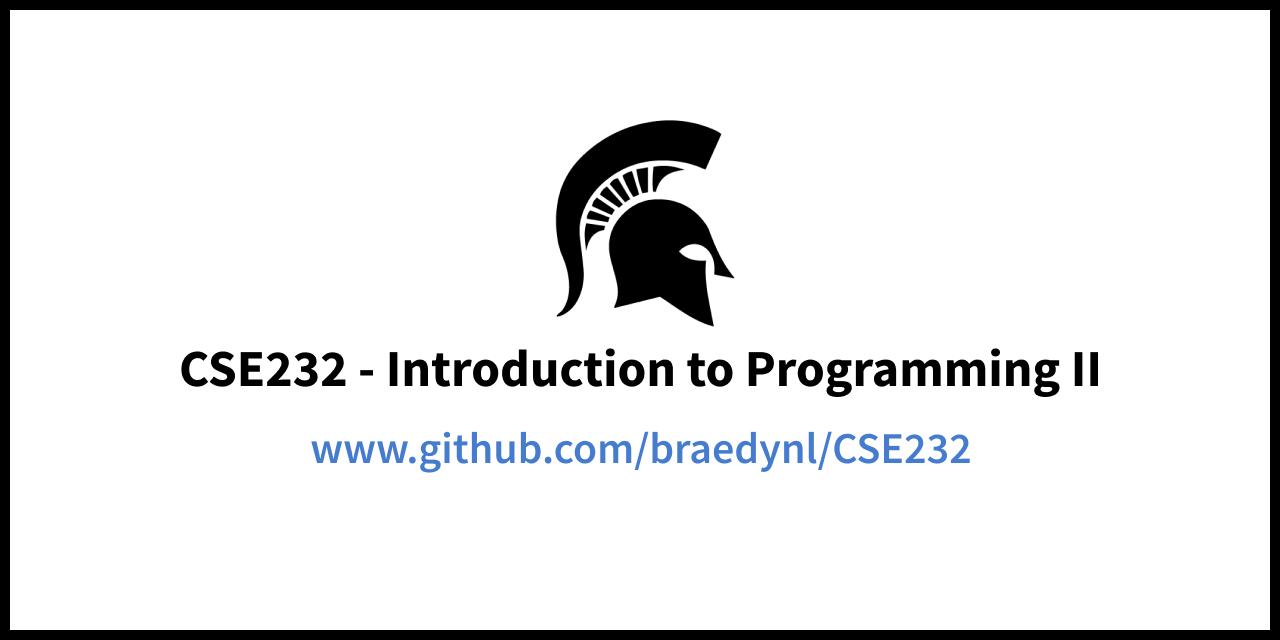
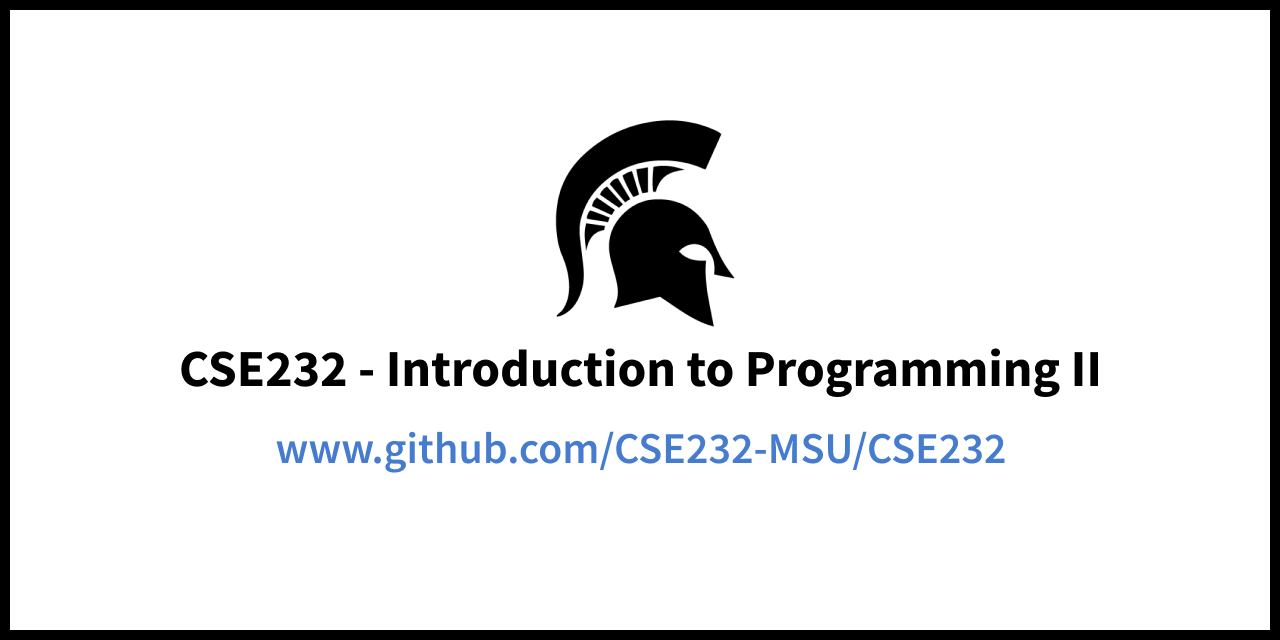
fixed links, deleted announcements section

Changed region(s): [[0.2188, 0.6562, 0.7812, 0.75]]

diff --git a/.assets/update_readme.py b/.assets/update_readme.py
@@ -100,7 +100,7 @@ class Calendar:
         self.calendar = {}
 
         date = self.start_datetime_obj
-        for _ in range(0, weeks):
+        for _ in range(weeks):
             for _ in range(7):
                 self.calendar[date.strftime('%m/%d/%Y')] = Day(date)
                 date += timedelta(1)
@@ -111,11 +111,7 @@ class Calendar:
         """
         return str(self.calendar)
 
-    def __repr__(self) -> str:
-        """
-        Represents the calendar as a string.
-        """
-        return str(self)
+    __repr__ = __str__
 
     def __getitem__(self, date: str) -> Day:
         """
@@ -156,7 +152,7 @@ class Calendar:
         start
             Optional argument to begin enumeration from a different number, defaulted to 1.
         step
-            Optional argument to skip enumerations by a particular step amount.
+            Optional argument to skip enumerations by a particular step amount, defaulted to 1.
         """
         date = self[start_date].datetime_obj
         date_str = date.strftime('%m/%d/%Y')
@@ -234,7 +230,7 @@ if __name__ == "__main__":
         every=7,
         start_date='1/10/2021',
         skip_dates=[],
-        href_format='https://braedynl.github.io/CSE232/schedule/week{:02d}/',
+        href_format='https://cse232-msu.github.io/CSE232/schedule/week{:02d}/',
         start=0,
         step=1
     )

diff --git a/README.md b/README.md
@@ -3,7 +3,6 @@
 Continuation of object-centered design and implementation in C++. Building programs from modules. Data abstractions and classes to implement abstract data types. Static and dynamic memory allocation. Data structure implementation and algorithm efficiency. Lists, tables, stacks, and queues. Templates and generic programming.
 
 General:
-- [Announcements](#announcements)
 - [Course Schedule](#course-schedule)
 - [Help Room Schedule](#help-room-schedule)
 - [Past Exams](https://cse.msu.edu/~cse232/Exam_Content/)
@@ -23,16 +22,6 @@ Resources:
 - [OnlineGDB](https://www.onlinegdb.com/)
 - [STL Algorithms Cheatsheet](https://medium.com/logicalbee/c-stl-algorithms-cheat-sheet-d92f986abe14)
 - [Unix Tutorial](https://www.tutorialspoint.com/unix/index.htm)
-
-## Announcements
-
-<img src=".assets/images/new-tag.svg" height="20px"> <img src=".assets/images/logistics-tag.svg" height="20px">
-
-<blockquote>
-<p>Welcome to CSE232! 🎉</p>
-<p>Please go through <a href="Labs/lab00.md">Lab 00</a> to get started with the course. It'll have you set up Mimir, Visual Studio Code, and a C++ compiler. We expect that you'll have all of these resources available by your first class meeting.</p>
-<p>— Braedyn Lettinga, 1/10/20</p>
-</blockquote>
 
 ## Course Schedule
 
@@ -59,7 +48,7 @@ You can hover over a calendar cell to see its precise date (sorry mobile users).
 <tbody>
 <tr>
 <td align="center">00: 01/10</td>
-<td align="center" title="Sunday, January 10th 2021 (01/10/2021)"><a href="https://braedynl.github.io/CSE232/schedule/week00/">Week 00 Lectures</a></td>
+<td align="center" title="Sunday, January 10th 2021 (01/10/2021)"><a href="https://cse232-msu.github.io/CSE232/schedule/week00/">Week 00 Lectures</a></td>
 <td align="center" title="Monday, January 11th 2021 (01/11/2021)"></td>
 <td align="center" title="Tuesday, January 12th 2021 (01/12/2021)"></td>
 <td align="center" title="Wednesday, January 13th 2021 (01/13/2021)"></td>
@@ -69,7 +58,7 @@ You can hover over a calendar cell to see its precise date (sorry mobile users).
 </tr>
 <tr>
 <td align="center">01: 01/17</td>
-<td align="center" title="Sunday, January 17th 2021 (01/17/2021)"><a href="https://braedynl.github.io/CSE232/schedule/week01/">Week 01 Lectures</a></td>
+<td align="center" title="Sunday, January 17th 2021 (01/17/2021)"><a href="https://cse232-msu.github.io/CSE232/schedule/week01/">Week 01 Lectures</a></td>
 <td align="center" title="Monday, January 18th 2021 (01/18/2021)"></td>
 <td align="center" title="Tuesday, January 19th 2021 (01/19/2021)"></td>
 <td align="center" title="Wednesday, January 20th 2021 (01/20/2021)"></td>
@@ -79,7 +68,7 @@ You can hover over a calendar cell to see its precise date (sorry mobile users).
 </tr>
 <tr>
 <td align="center">02: 01/24</td>
-<td align="center" title="Sunday, January 24th 2021 (01/24/2021)"><a href="https://braedynl.github.io/CSE232/schedule/week02/">Week 02 Lectures</a></td>
+<td align="center" title="Sunday, January 24th 2021 (01/24/2021)"><a href="https://cse232-msu.github.io/CSE232/schedule/week02/">Week 02 Lectures</a></td>
 <td align="center" title="Monday, January 25th 2021 (01/25/2021)"></td>
 <td align="center" title="Tuesday, January 26th 2021 (01/26/2021)"></td>
 <td align="center" title="Wednesday, January 27th 2021 (01/27/2021)"></td>
@@ -89,7 +78,7 @@ You can hover over a calendar cell to see its precise date (sorry mobile users).
 </tr>
 <tr>
 <td align="center">03: 01/31</td>
-<td align="center" title="Sunday, January 31st 2021 (01/31/2021)"><a href="https://braedynl.github.io/CSE232/schedule/week03/">Week 03 Lectures</a></td>
+<td align="center" title="Sunday, January 31st 2021 (01/31/2021)"><a href="https://cse232-msu.github.io/CSE232/schedule/week03/">Week 03 Lectures</a></td>
 <td align="center" title="Monday, February 1st 2021 (02/01/2021)"></td>
 <td align="center" title="Tuesday, February 2nd 2021 (02/02/2021)"></td>
 <td align="center" title="Wednesday, February 3rd 2021 (02/03/2021)"></td>
@@ -99,7 +88,7 @@ You can hover over a calendar cell to see its precise date (sorry mobile users).
 </tr>
 <tr>
 <td align="center">04: 02/07</td>
-<td align="center" title="Sunday, February 7th 2021 (02/07/2021)"><a href="https://braedynl.github.io/CSE232/schedule/week04/">Week 04 Lectures</a></td>
+<td align="center" title="Sunday, February 7th 2021 (02/07/2021)"><a href="https://cse232-msu.github.io/CSE232/schedule/week04/">Week 04 Lectures</a></td>
 <td align="center" title="Monday, February 8th 2021 (02/08/2021)"></td>
 <td align="center" title="Tuesday, February 9th 2021 (02/09/2021)"></td>
 <td align="center" title="Wednesday, February 10th 2021 (02/10/2021)"></td>
@@ -109,7 +98,7 @@ You can hover over a calendar cell to see its precise date (sorry mobile users).
 </tr>
 <tr>
 <td align="center">05: 02/14</td>
-<td align="center" title="Sunday, February 14th 2021 (02/14/2021)"><a href="https://braedynl.github.io/CSE232/schedule/week05/">Week 05 Lectures</a></td>
+<td align="center" title="Sunday, February 14th 2021 (02/14/2021)"><a href="https://cse232-msu.github.io/CSE232/schedule/week05/">Week 05 Lectures</a></td>
 <td align="center" title="Monday, February 15th 2021 (02/15/2021)"></td>
 <td align="center" title="Tuesday, February 16th 2021 (02/16/2021)"></td>
 <td align="center" title="Wednesday, February 17th 2021 (02/17/2021)"></td>
@@ -119,7 +108,7 @@ You can hover over a calendar cell to see its precise date (sorry mobile users).
 </tr>
 <tr>
 <td align="center">06: 02/21</td>
-<td align="center" title="Sunday, February 21st 2021 (02/21/2021)"><a href="https://braedynl.github.io/CSE232/schedule/week06/">Week 06 Lectures</a></td>
+<td align="center" title="Sunday, February 21st 2021 (02/21/2021)"><a href="https://cse232-msu.github.io/CSE232/schedule/week06/">Week 06 Lectures</a></td>
 <td align="center" title="Monday, February 22nd 2021 (02/22/2021)"></td>
 <td align="center" title="Tuesday, February 23rd 2021 (02/23/2021)"></td>
 <td align="center" title="Wednesday, February 24th 2021 (02/24/2021)"></td>
@@ -129,7 +118,7 @@ You can hover over a calendar cell to see its precise date (sorry mobile users).
 </tr>
 <tr>
 <td align="center">07: 02/28</td>
-<td align="center" title="Sunday, February 28th 2021 (02/28/2021)"><a href="https://braedynl.github.io/CSE232/schedule/week07/">Week 07 Lectures</a></td>
+<td align="center" title="Sunday, February 28th 2021 (02/28/2021)"><a href="https://cse232-msu.github.io/CSE232/schedule/week07/">Week 07 Lectures</a></td>
 <td align="center" title="Monday, March 1st 2021 (03/01/2021)"></td>
 <td align="center" title="Tuesday, March 2nd 2021 (03/02/2021)"></td>
 <td align="center" title="Wednesday, March 3rd 2021 (03/03/2021)"></td>
@@ -139,7 +128,7 @@ You can hover over a calendar cell to see its precise date (sorry mobile users).
 </tr>
 <tr>
 <td align="center">08: 03/07</td>
-<td align="center" title="Sunday, March 7th 2021 (03/07/2021)"><a href="https://braedynl.github.io/CSE232/schedule/week08/">Week 08 Lectures</a></td>
+<td align="center" title="Sunday, March 7th 2021 (03/07/2021)"><a href="https://cse232-msu.github.io/CSE232/schedule/week08/">Week 08 Lectures</a></td>
 <td align="center" title="Monday, March 8th 2021 (03/08/2021)"></td>
 <td align="center" title="Tuesday, March 9th 2021 (03/09/2021)"></td>
 <td align="center" title="Wednesday, March 10th 2021 (03/10/2021)"></td>
@@ -149,7 +138,7 @@ You can hover over a calendar cell to see its precise date (sorry mobile users).
 </tr>
 <tr>
 <td align="center">09: 03/14</td>
-<td align="center" title="Sunday, March 14th 2021 (03/14/2021)"><a href="https://braedynl.github.io/CSE232/schedule/week09/">Week 09 Lectures</a></td>
+<td align="center" title="Sunday, March 14th 2021 (03/14/2021)"><a href="https://cse232-msu.github.io/CSE232/schedule/week09/">Week 09 Lectures</a></td>
 <td align="center" title="Monday, March 15th 2021 (03/15/2021)"></td>
 <td align="center" title="Tuesday, March 16th 2021 (03/16/2021)"></td>
 <td align="center" title="Wednesday, March 17th 2021 (03/17/2021)"></td>
@@ -159,7 +148,7 @@ You can hover over a calendar cell to see its precise date (sorry mobile users).
 </tr>
 <tr>
 <td align="center">10: 03/21</td>
-<td align="center" title="Sunday, March 21st 2021 (03/21/2021)"><a href="https://braedynl.github.io/CSE232/schedule/week10/">Week 10 Lectures</a></td>
+<td align="center" title="Sunday, March 21st 2021 (03/21/2021)"><a href="https://cse232-msu.github.io/CSE232/schedule/week10/">Week 10 Lectures</a></td>
 <td align="center" title="Monday, March 22nd 2021 (03/22/2021)"></td>
 <td align="center" title="Tuesday, March 23rd 2021 (03/23/2021)"></td>
 <td align="center" title="Wednesday, March 24th 2021 (03/24/2021)"></td>
@@ -169,7 +158,7 @@ You can hover over a calendar cell to see its precise date (sorry mobile users).
 </tr>
 <tr>
 <td align="center">11: 03/28</td>
-<td align="center" title="Sunday, March 28th 2021 (03/28/2021)"><a href="https://braedynl.github.io/CSE232/schedule/week11/">Week 11 Lectures</a></td>
+<td align="center" title="Sunday, March 28th 2021 (03/28/2021)"><a href="https://cse232-msu.github.io/CSE232/schedule/week11/">Week 11 Lectures</a></td>
 <td align="center" title="Monday, March 29th 2021 (03/29/2021)"></td>
 <td align="center" title="Tuesday, March 30th 2021 (03/30/2021)"></td>
 <td align="center" title="Wednesday, March 31st 2021 (03/31/2021)"></td>
@@ -179,7 +168,7 @@ You can hover over a calendar cell to see its precise date (sorry mobile users).
 </tr>
 <tr>
 <td align="center">12: 04/04</td>
-<td align="center" title="Sunday, April 4th 2021 (04/04/2021)"><a href="https://braedynl.github.io/CSE232/schedule/week12/">Week 12 Lectures</a></td>
+<td align="center" title="Sunday, April 4th 2021 (04/04/2021)"><a href="https://cse232-msu.github.io/CSE232/schedule/week12/">Week 12 Lectures</a></td>
 <td align="center" title="Monday, April 5th 2021 (04/05/2021)"></td>
 <td align="center" title="Tuesday, April 6th 2021 (04/06/2021)"></td>
 <td align="center" title="Wednesday, April 7th 2021 (04/07/2021)"></td>
@@ -189,7 +178,7 @@ You can hover over a calendar cell to see its precise date (sorry mobile users).
 </tr>
 <tr>
 <td align="center">13: 04/11</td>
-<td align="center" title="Sunday, April 11th 2021 (04/11/2021)"><a href="https://braedynl.github.io/CSE232/schedule/week13/">Week 13 Lectures</a></td>
+<td align="center" title="Sunday, April 11th 2021 (04/11/2021)"><a href="https://cse232-msu.github.io/CSE232/schedule/week13/">Week 13 Lectures</a></td>
 <td align="center" title="Monday, April 12th 2021 (04/12/2021)"></td>
 <td align="center" title="Tuesday, April 13th 2021 (04/13/2021)"></td>
 <td align="center" title="Wednesday, April 14th 2021 (04/14/2021)"></td>
@@ -199,7 +188,7 @@ You can hover over a calendar cell to see its precise date (sorry mobile users).
 </tr>
 <tr>
 <td align="center">14: 04/18</td>
-<td align="center" title="Sunday, April 18th 2021 (04/18/2021)"><a href="https://braedynl.github.io/CSE232/schedule/week14/">Week 14 Lectures</a></td>
+<td align="center" title="Sunday, April 18th 2021 (04/18/2021)"><a href="https://cse232-msu.github.io/CSE232/schedule/week14/">Week 14 Lectures</a></td>
 <td align="center" title="Monday, April 19th 2021 (04/19/2021)"></td>
 <td align="center" title="Tuesday, April 20th 2021 (04/20/2021)"></td>
 <td align="center" title="Wednesday, April 21st 2021 (04/21/2021)"></td>

diff --git a/.assets/README_TEMP.md b/.assets/README_TEMP.md
@@ -3,7 +3,6 @@
 Continuation of object-centered design and implementation in C++. Building programs from modules. Data abstractions and classes to implement abstract data types. Static and dynamic memory allocation. Data structure implementation and algorithm efficiency. Lists, tables, stacks, and queues. Templates and generic programming.
 
 General:
-- [Announcements](#announcements)
 - [Course Schedule](#course-schedule)
 - [Help Room Schedule](#help-room-schedule)
 - [Past Exams](https://cse.msu.edu/~cse232/Exam_Content/)
@@ -23,16 +22,6 @@ Resources:
 - [OnlineGDB](https://www.onlinegdb.com/)
 - [STL Algorithms Cheatsheet](https://medium.com/logicalbee/c-stl-algorithms-cheat-sheet-d92f986abe14)
 - [Unix Tutorial](https://www.tutorialspoint.com/unix/index.htm)
-
-## Announcements
-
-<img src=".assets/images/new-tag.svg" height="20px"> <img src=".assets/images/logistics-tag.svg" height="20px">
-
-<blockquote>
-<p>Welcome to CSE232! 🎉</p>
-<p>Please go through <a href="Labs/lab00.md">Lab 00</a> to get started with the course. It'll have you set up Mimir, Visual Studio Code, and a C++ compiler. We expect that you'll have all of these resources available by your first class meeting.</p>
-<p>— Braedyn Lettinga, 1/10/20</p>
-</blockquote>
 
 ## Course Schedule
 

diff --git a/Labs/lab00.md b/Labs/lab00.md
@@ -4,7 +4,7 @@ This lab is designed to get you acquainted with the class resources and recommen
 
 ## Class Resources
 
-Course Website: https://github.com/braedynl/CSE232
+Course Website: https://github.com/CSE232-MSU/CSE232
 
 Piazza: 
 
